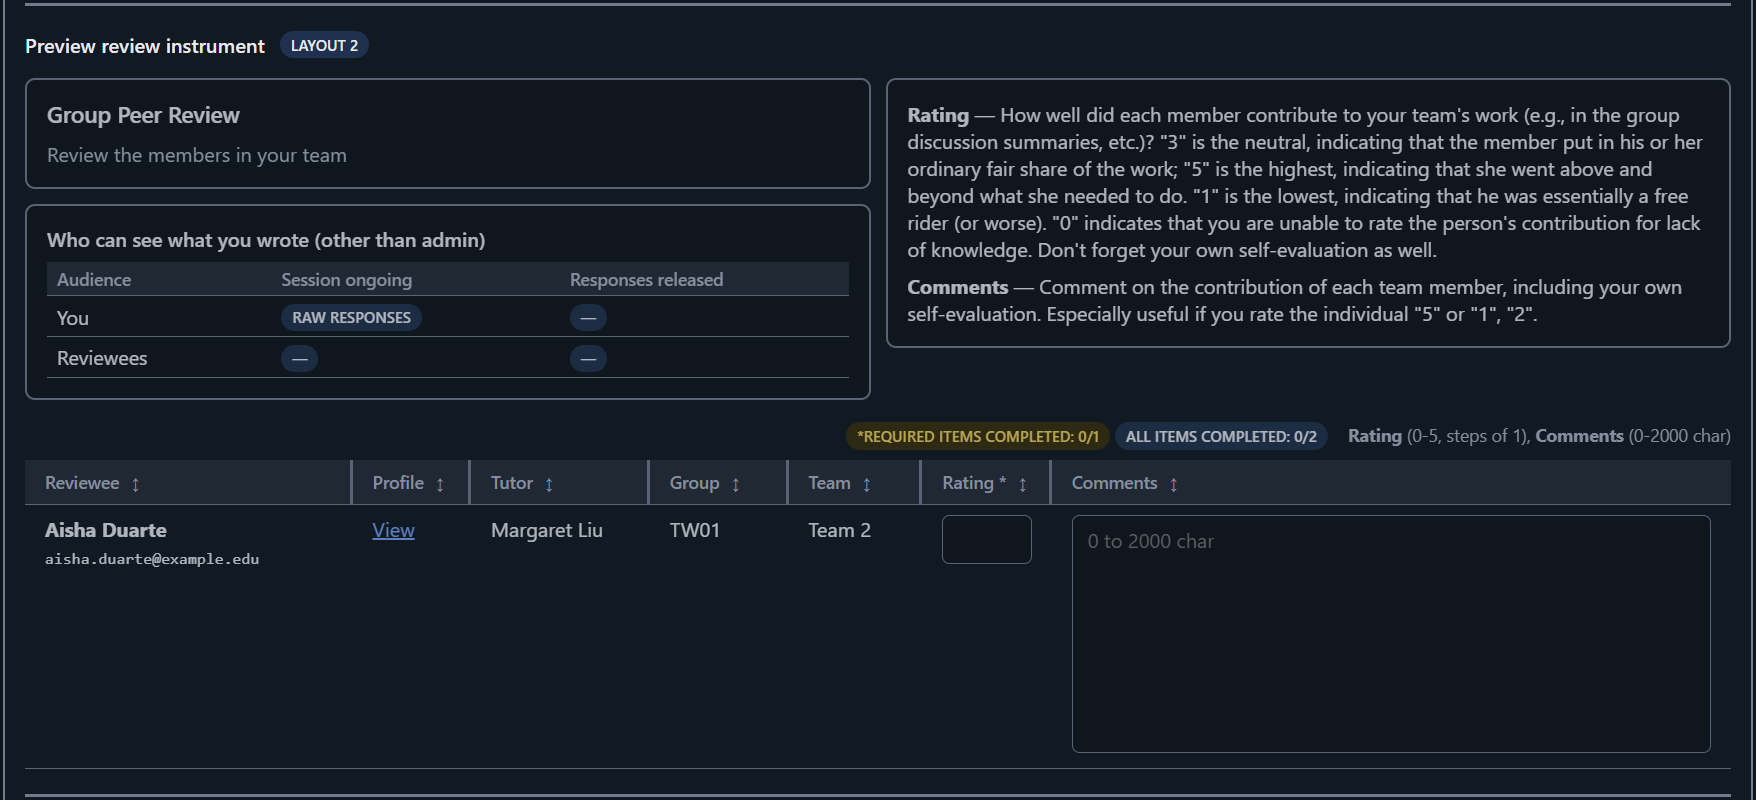
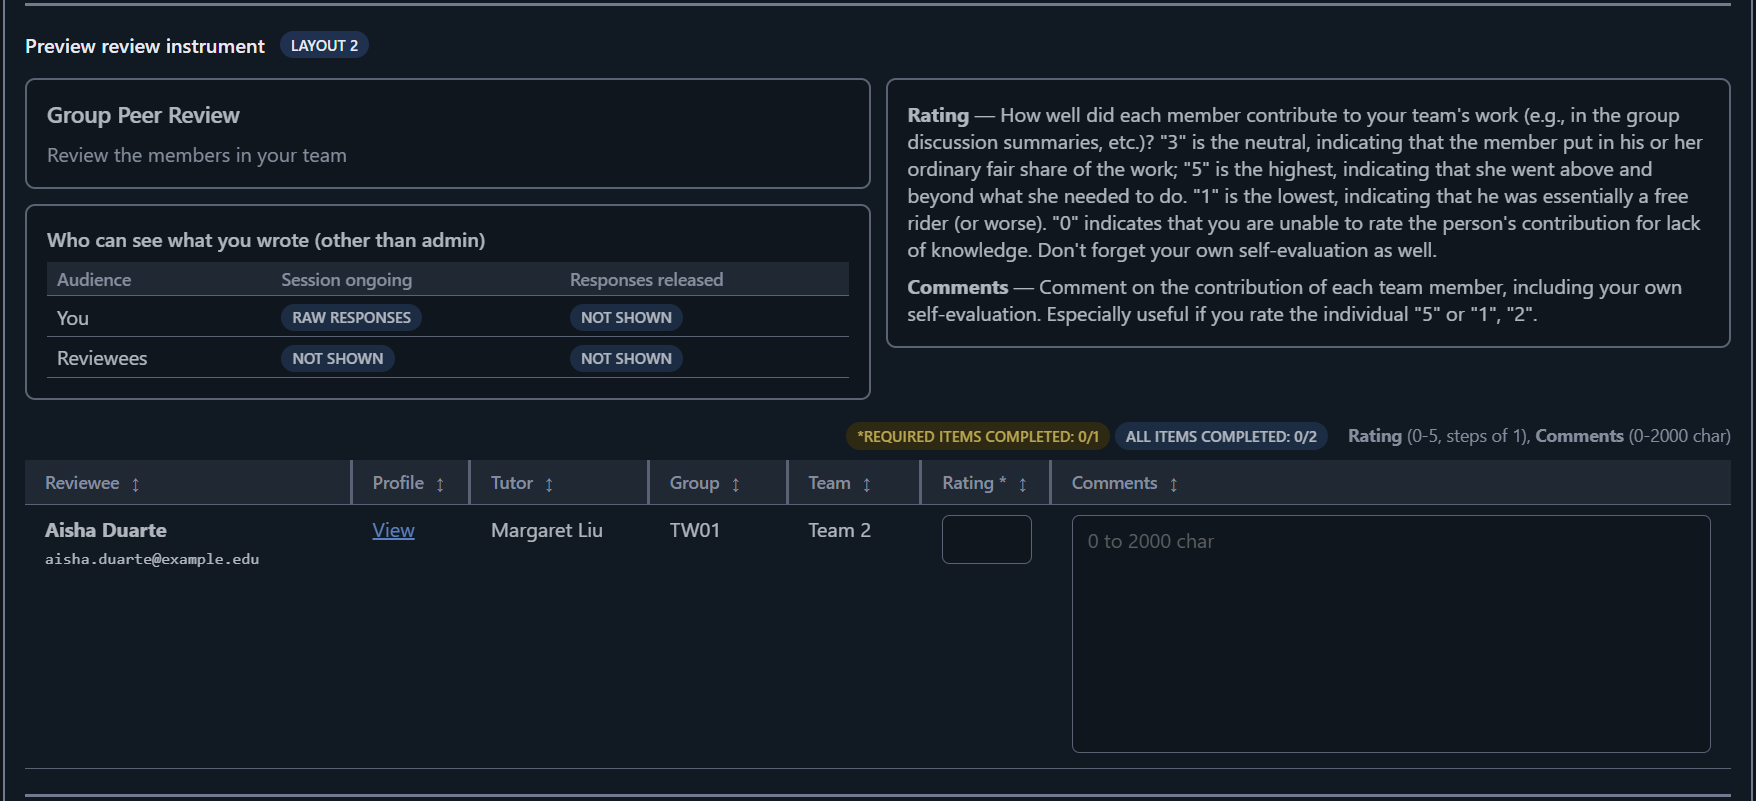
19Y Item 8 follow-up: Band 2 screencaps show Not shown; browser checks passed
- The four Band 2 preview screencaps (unlocked and locked, light and
  dark), reshot from the author's Guide_6c.docx, read "Not shown" where
  the old ones showed "—". The alt text and prose stand.
- The author's browser checks for Item 8 passed (2026-10-21): its
  section leaves guide/things_to_check_in_browser.md.
- 19Y Items 1–8 Status: "Owed by the author" becomes "Browser checks
  passed", with the dates the author confirmed them.

Claude-Session: https://claude.ai/code/session_0116Ns1HgCKeKutgZT3Tje64

diff --git a/guide/segment_19Y_more_ux_refinements.md b/guide/segment_19Y_more_ux_refinements.md
@@ -112,9 +112,8 @@ on the plan), and the close.
   right-column hide rule (a 12px gap under no-help intros at ≤ 800px),
   an empty-row gap and two stale spec phrases; all fixed, with browser
   tests for the narrow no-help and no-heading-no-help cases.
-- **Owed by the author:** the browser-check rows in
-  `guide/things_to_check_in_browser.md`, including reshooting the Guide's
-  preview screencap and its alt text.
+- **Browser checks** passed (the author, 2026-10-20); the Guide's
+  preview screencap and its alt text were redone in Item 7.
 
 ### PR ladder
 
@@ -253,9 +252,8 @@ the close.
   lock-dependent wording in `spec/instruments.md`, this count).
   `spec-writer` at the close wrote the five specs, the rule included;
   no code-versus-plan flag.
-- **Owed by the author:** the browser-check rows in
-  `guide/things_to_check_in_browser.md`; the Item 1 screencap reshoot
-  now shows Item 2's rows, and its alt text says so.
+- **Browser checks** passed (the author, 2026-10-20); the Item 1
+  screencap reshoot (Item 7) shows Item 2's rows.
 
 ### PR ladder
 
@@ -381,8 +379,7 @@ and close in one, as laddered.
   `before` unchecked in two tests).
   `spec-writer` at the close wrote the three specs (a new intro-columns
   blockquote in `spec/ui_elements.md`); no code-versus-plan flag.
-- **Owed by the author:** the browser-check rows in
-  `guide/things_to_check_in_browser.md`.
+- **Browser checks** passed (the author, 2026-10-20).
 
 ### PR ladder
 
@@ -470,8 +467,7 @@ the build, specs and close in one, as laddered.
   inline style, and the test's selector matches only it. A docstring
   that claimed an unchecked height was trimmed. `spec-writer` at the
   close wrote the two specs; no flag beyond a section number.
-- **Owed by the author:** the browser-check row in
-  `guide/things_to_check_in_browser.md`.
+- **Browser checks** passed (the author, 2026-10-20).
 
 ### PR ladder
 
@@ -562,8 +558,7 @@ the build, specs and close in one, as laddered.
   unobserve, a width test that compared two layouts rather than one box
   before and after, and the help-text helper moved to `_builder.py`).
   `spec-writer` at the close wrote the two specs; no flag.
-- **Owed by the author:** the browser-check row in
-  `guide/things_to_check_in_browser.md`.
+- **Browser checks** passed (the author, 2026-10-20).
 
 ### PR ladder
 
@@ -649,8 +644,7 @@ the build, spec and close in one, as laddered.
   (the description and `autocomplete`, above). `spec-writer` at the
   close wrote `spec/instruments.md`; its one flag, a "persisted values
   only" sentence the hook falsified, it rewrote.
-- **Owed by the author:** the browser-check row in
-  `guide/things_to_check_in_browser.md`.
+- **Browser checks** passed (the author, 2026-10-21).
 
 ### PR ladder
 
@@ -738,8 +732,7 @@ swapping the two Band 2 pairs.
   and corrected the Create session alt text's placement of "Release
   responses until".
   `spec-writer`: no spec in Doc impact; no spec names these screencaps.
-- **Owed by the author:** the browser-check row in
-  `guide/things_to_check_in_browser.md`.
+- **Browser checks** passed (the author, 2026-10-21).
 
 ### PR ladder
 
@@ -828,8 +821,8 @@ and 7 browser checks).
   `spec/visibility_policy.md`, `spec/ui_elements.md` §9 and
   `spec/instruments.md`; no flags. Codex then found the same "—" in
   `spec/rrw_functional_spec.md`'s reviewer card, now fixed.
-- **Owed by the author:** the browser-check rows and the screencap
-  reshoot in `guide/things_to_check_in_browser.md`.
+- **Browser checks** passed (the author, 2026-10-21); the four Band 2
+  screencaps were reshot from `Guide_6c.docx` in a follow-up PR.
 
 ### PR ladder
 

diff --git a/guide/things_to_check_in_browser.md b/guide/things_to_check_in_browser.md
@@ -47,18 +47,3 @@ deployment, not a local run.
 - [ ] **An invited user's first sign-in binds them.** Invite a new
   address, then sign in as it: the log shows
   `workspace.user_principal_recorded`.
-
-## Visibility "off" reads "Not shown" (19Y Item 8)
-
-- [ ] **The reviewer sees words, not a dash.** On a reviewer's page, the
-  "Who can see what you wrote" card reads "Not shown" where an audience
-  sees nothing (Reviewees while the session runs; You after release
-  unless the operator set Raw), in the muted pill.
-- [ ] **The instrument card matches.** Locked, Band 2's card reads the
-  same; unlocked, a cell's chip cycles through to "Not shown", the fixed
-  Reviewees · Session ongoing switch reads "Not shown", and the locked
-  table repaints to match before Save. The wider pill keeps the table
-  tidy in Layouts 1 and 2 and at a narrow width.
-- [ ] **The Guide's screencaps catch up.** Reshoot
-  `app/web/static/guide/instrument-card-preview.png`, `-dark`, and the
-  two `instrument-card-preview-unlocked` images, which still show "—".
